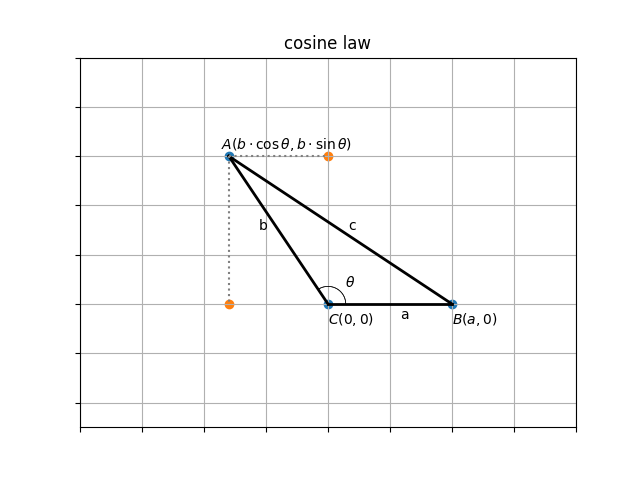
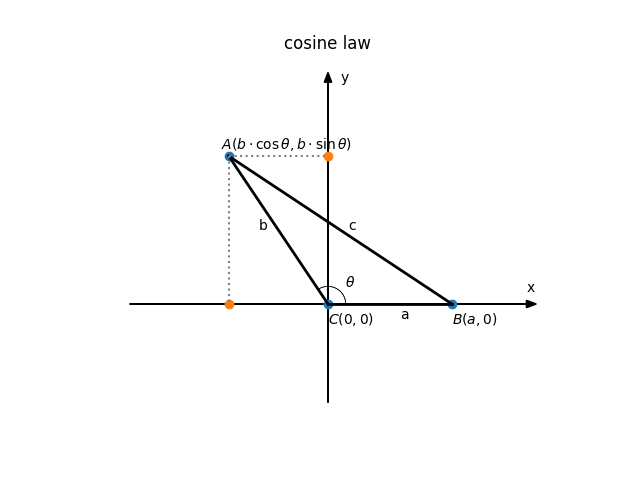
add cosine_law3.py

diff --git a/analytic_geometry/cosine_law/python/cosine_law3.py b/analytic_geometry/cosine_law/python/cosine_law3.py
@@ -1,0 +1,79 @@
+# -*- coding: utf-8 -*-
+
+import numpy as np
+import matplotlib.pyplot as plt
+
+x1=-10
+x2=10
+y1=-5
+y2=10
+plt.axis([x1,x2,y1,y2])
+
+plt.title("cosine law")
+plt.axis('off')
+plt.grid(False)
+
+# 绘制坐标轴
+plt.arrow(x1+2, 0, x2-x1-4, 0, head_length=0.4, head_width=0.3, color='k')
+plt.text(x2-2, 0.5, 'x')
+plt.arrow(0, y1+1, 0, y2-y1-2, head_length=0.4, head_width=0.3, color='k')
+plt.text(0.5, y2-1, 'y')
+
+# 隐藏刻度值
+ax = plt.gca()
+
+ax.axes.xaxis.set_ticklabels([])
+ax.axes.yaxis.set_ticklabels([])
+
+xa = 2; ya = 6;
+xb = 5; yb = 0
+xc = 0; yc = 0;
+
+# 绘制边
+plt.plot([xa, xb], [ya, yb], linewidth=2, color='k')
+plt.plot([xa, xc], [ya, yc], linewidth=2, color='k')
+plt.plot([xb, xc], [yb, yc], linewidth=2, color='k')
+
+# 绘制边的名称
+plt.text((xa+xb)/2+0.3, (ya+yb)/2, "c")
+plt.text((xa+xc)/2-0.8, (ya+yc)/2, "b")
+plt.text((xb+xc)/2+0.4, (yb+yc)/2-0.6, "a")
+
+# 绘制辅助线
+plt.plot([xa, 0], [ya, ya], color='gray', linestyle=':')
+plt.plot([xa, xa], [ya, 0], color='gray', linestyle=':')
+
+# 绘制点
+plt.scatter([xa, xb, xc], [ya, yb, yc])
+plt.scatter([xa, 0], [0, ya])
+
+# 绘制点的名称
+plt.text(xa-0.3, ya+0.3, r"$A (b \cdot \cos \theta, b \cdot \sin \theta)$")
+plt.text(xb, yb-0.8, r"$B (a, 0)$")
+plt.text(xc, yc-0.8, r"$C (0, 0)$")
+
+# 计算角的度数
+theta = np.degrees(np.arctan((ya-yc)/(xa-xc)))
+if theta < 0:
+    theta += 180
+print("theta: {}".format(theta))
+
+# 绘制角的弧线
+p1=0
+p2=theta*np.pi/180
+r=(xb-xc)/7
+dp=(p2-p1)/50
+xlast=xc+r*np.cos(p1)
+ylast=yc+r*np.sin(p1)
+for p in np.arange(p1+dp,p2,dp):
+    x=xc+r*np.cos(p)
+    y=yc+r*np.sin(p)
+    plt.plot([xlast,x],[ylast,y],linewidth=0.5,color='k')
+    xlast=x
+    ylast=y
+
+# 绘制角的名称
+plt.text(xc+0.7, yc+0.7, r"$\theta$")
+
+plt.show()
+
